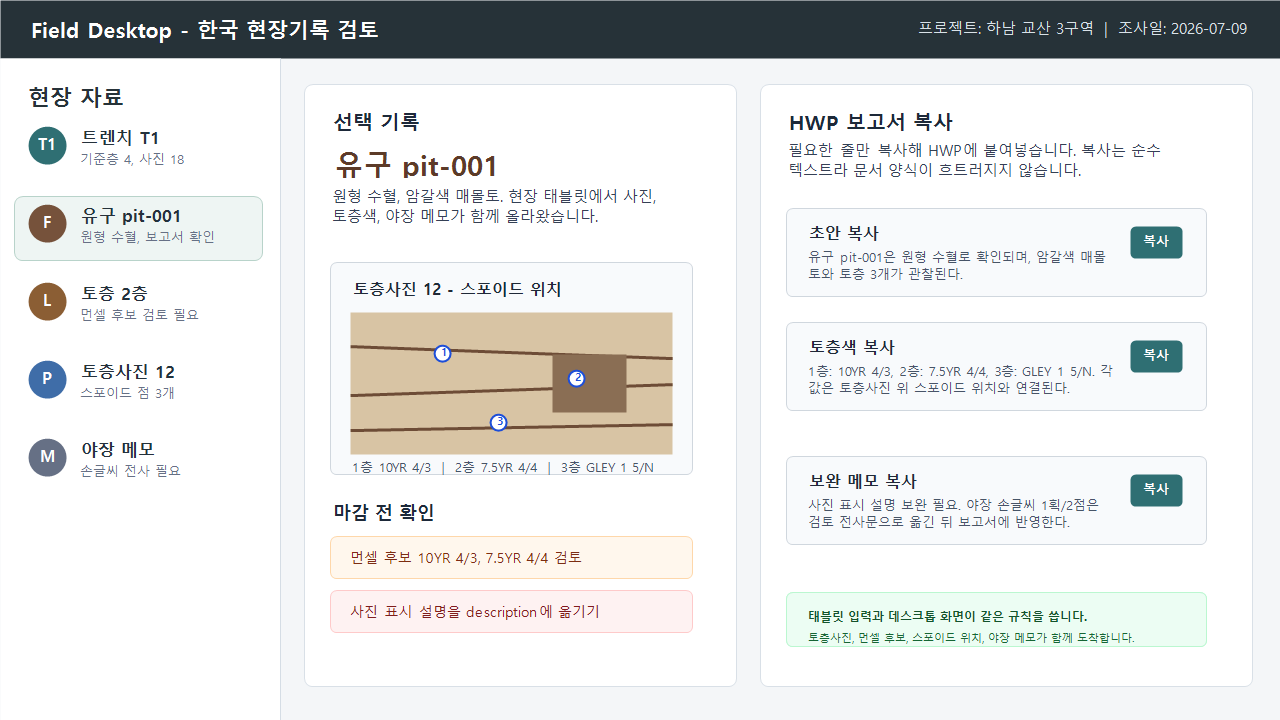
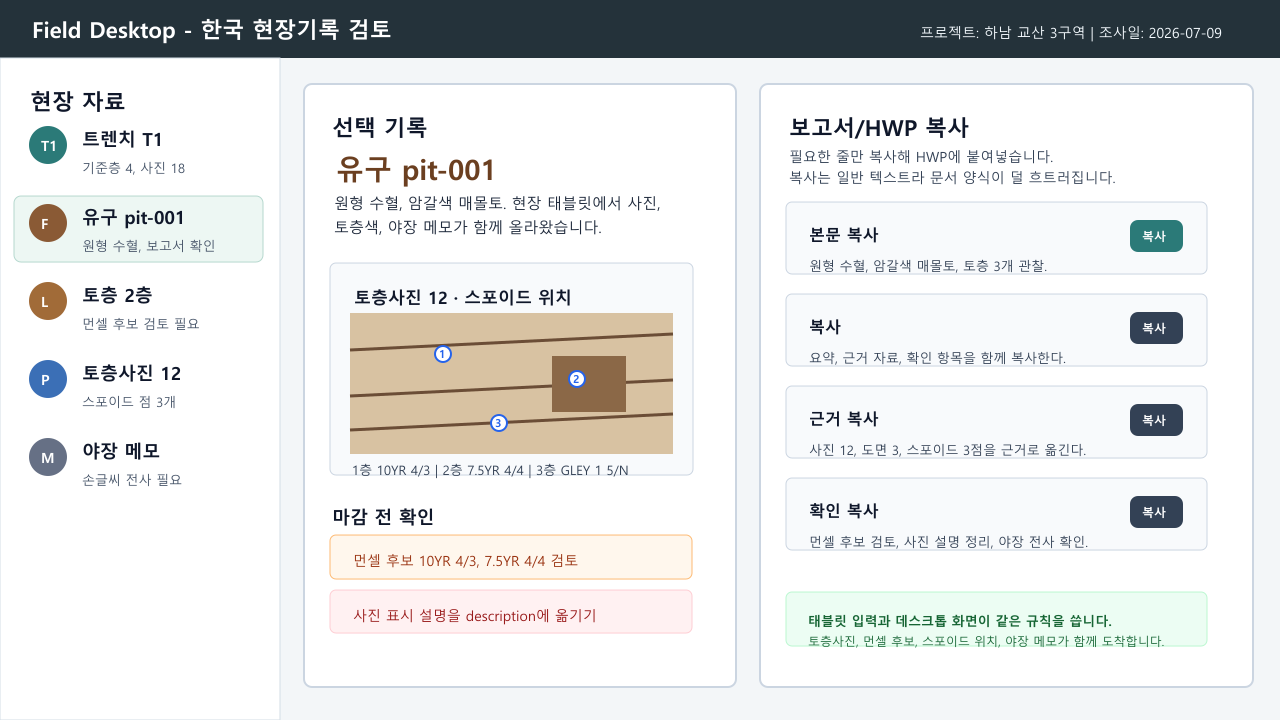
Refresh HWP body copy README visual

diff --git a/tools/korean-fieldwork-parity-check.js b/tools/korean-fieldwork-parity-check.js
@@ -3805,6 +3805,12 @@ function validateTabletInstallGuide() {
       || !desktopInstallDocText.includes('`본문 복사`')) {
     findings.push('root README and desktop install guide must document direct Field Desktop HWP body copy before BridgeDesk fallback tooling');
   }
+  if (!readTextFile('tools/bridgedesk/tools/make_visual_assets.py').includes('make_readme_field_desktop_screenshot')
+      || !readTextFile('tools/bridgedesk/tools/make_visual_assets.py').includes('readme-field-desktop-hwp-copy.png')
+      || !readTextFile('tools/bridgedesk/tools/make_visual_assets.py').includes('본문 복사')
+      || !readTextFile('tools/bridgedesk/pyproject.toml').includes('Pillow')) {
+    findings.push('README HWP screenshot generation must stay tied to the direct Field Desktop body-copy flow and declare its Pillow dependency');
+  }
   if (!rootReadmeText.includes('태블릿 자료를 데스크톱으로 받기')
       || !rootReadmeText.includes('Field Hub 동기화')
       || !rootReadmeText.includes('original_image')

diff --git a/tools/bridgedesk/tools/make_visual_assets.py b/tools/bridgedesk/tools/make_visual_assets.py
@@ -4,7 +4,13 @@ from __future__ import annotations
 
 from pathlib import Path
 
-from PIL import Image, ImageDraw, ImageFont
+try:
+    from PIL import Image, ImageDraw, ImageFont
+except ModuleNotFoundError as exc:
+    raise SystemExit(
+        "Pillow is required to generate BridgeDesk visual assets. "
+        "Install it with: python -m pip install Pillow"
+    ) from exc
 
 
 ROOT = Path(__file__).resolve().parent.parent
@@ -12,6 +18,7 @@ ROOT = Path(__file__).resolve().parent.parent
 
 def main() -> None:
     make_icon_assets()
+    make_readme_field_desktop_screenshot()
     make_desktop_screenshot()
     make_tablet_screenshot()
     print("Visual assets generated.")
@@ -34,6 +41,83 @@ def make_icon_assets() -> None:
     icon.resize((192, 192), Image.Resampling.LANCZOS).save(tablet_icon_dir / "icon-192.png")
     icon.save(tablet_icon_dir / "icon-512.png")
     icon.save(icon_dir / "bridgedesk.ico", sizes=[(16, 16), (32, 32), (48, 48), (128, 128), (256, 256)])
+
+
+def make_readme_field_desktop_screenshot() -> None:
+    out_dir = ROOT.parent.parent / "docs" / "korean-fieldwork" / "images"
+    out_dir.mkdir(parents=True, exist_ok=True)
+    image = Image.new("RGB", (1280, 720), "#f3f6f8")
+    draw = ImageDraw.Draw(image)
+
+    draw.rectangle((0, 0, 1280, 58), fill="#24323a")
+    draw.text((32, 18), "Field Desktop - 한국 현장기록 검토", fill="#ffffff", font=font(22, bold=True))
+    draw.text((920, 22), "프로젝트: 하남 교산 3구역  |  조사일: 2026-07-09", fill="#f5fbff", font=font(14))
+
+    draw.rectangle((0, 58, 280, 720), fill="#ffffff", outline="#d4dde6")
+    draw.text((30, 88), "현장 자료", fill="#0f172a", font=font(22, bold=True))
+    sidebar_items = [
+        ("T1", "트렌치 T1", "기준층 4, 사진 18", "#2b7a78"),
+        ("F", "유구 pit-001", "원형 수혈, 보고서 확인", "#8a5a35"),
+        ("L", "토층 2층", "먼셀 후보 검토 필요", "#a16b38"),
+        ("P", "토층사진 12", "스포이드 점 3개", "#3b6fb6"),
+        ("M", "야장 메모", "손글씨 전사 필요", "#667085"),
+    ]
+    for index, (badge, title, subtitle, color) in enumerate(sidebar_items):
+        y = 126 + index * 78
+        if index == 1:
+            draw.rounded_rectangle((14, y - 8, 263, y + 58), radius=7, fill="#edf7f3", outline="#b6d8ce")
+        draw.ellipse((29, y, 67, y + 38), fill=color)
+        draw.text((41, y + 9), badge, fill="#ffffff", font=font(14, bold=True))
+        draw.text((82, y + 1), title, fill="#0f172a", font=font(18, bold=True))
+        draw.text((82, y + 28), subtitle, fill="#475569", font=font(13))
+
+    draw_card(draw, (304, 84, 736, 687))
+    draw.text((332, 114), "선택 기록", fill="#0f172a", font=font(22, bold=True))
+    draw.text((336, 152), "유구 pit-001", fill="#6b3f20", font=font(28, bold=True))
+    draw.text((334, 190), "원형 수혈, 암갈색 매몰토. 현장 태블릿에서 사진,", fill="#1e293b", font=font(15))
+    draw.text((334, 214), "토층색, 야장 메모가 함께 올라왔습니다.", fill="#1e293b", font=font(15))
+
+    draw.rounded_rectangle((330, 263, 693, 475), radius=6, fill="#f8fafc", outline="#cbd5e1")
+    draw.text((354, 283), "토층사진 12 · 스포이드 위치", fill="#0f172a", font=font(17, bold=True))
+    draw.rectangle((350, 313, 673, 454), fill="#d8c2a2")
+    for line_y in (350, 396, 430):
+        draw.line((350, line_y, 673, line_y - 16), fill="#6b4d36", width=3)
+    draw.rectangle((552, 356, 626, 412), fill="#8b6847")
+    for number, point in enumerate(((443, 354), (577, 379), (499, 423)), start=1):
+        x, y = point
+        draw.ellipse((x - 8, y - 8, x + 8, y + 8), fill="#ffffff", outline="#2563eb", width=2)
+        draw.text((x - 4, y - 7), str(number), fill="#2563eb", font=font(11, bold=True))
+    draw.text((352, 461), "1층 10YR 4/3  |  2층 7.5YR 4/4  |  3층 GLEY 1 5/N", fill="#334155", font=font(13))
+
+    draw.text((332, 505), "마감 전 확인", fill="#0f172a", font=font(18, bold=True))
+    draw.rounded_rectangle((330, 535, 692, 579), radius=6, fill="#fff7ed", outline="#fdba74")
+    draw.text((353, 551), "먼셀 후보 10YR 4/3, 7.5YR 4/4 검토", fill="#9a3412", font=font(14))
+    draw.rounded_rectangle((330, 590, 692, 633), radius=6, fill="#fff1f2", outline="#fecdd3")
+    draw.text((353, 606), "사진 표시 설명을 description에 옮기기", fill="#991b1b", font=font(14))
+
+    draw_card(draw, (760, 84, 1253, 687))
+    draw.text((789, 114), "보고서/HWP 복사", fill="#0f172a", font=font(22, bold=True))
+    draw.text((789, 144), "필요한 줄만 복사해 HWP에 붙여넣습니다.", fill="#334155", font=font(14))
+    draw.text((789, 165), "복사는 일반 텍스트라 문서 양식이 덜 흐트러집니다.", fill="#334155", font=font(14))
+
+    copy_blocks = [
+        ("본문 복사", "원형 수혈, 암갈색 매몰토, 토층 3개 관찰.", "#2b7a78"),
+        ("복사", "요약, 근거 자료, 확인 항목을 함께 복사한다.", "#334155"),
+        ("근거 복사", "사진 12, 도면 3, 스포이드 3점을 근거로 옮긴다.", "#334155"),
+        ("확인 복사", "먼셀 후보 검토, 사진 설명 정리, 야장 전사 확인.", "#334155"),
+    ]
+    for index, (button_label, text, button_color) in enumerate(copy_blocks):
+        y = 202 + index * 92
+        draw.rounded_rectangle((786, y, 1207, y + 72), radius=6, fill="#f8fafc", outline="#cbd5e1")
+        draw.text((809, y + 18), button_label, fill="#0f172a", font=font(16, bold=True))
+        draw.text((809, y + 48), text, fill="#334155", font=font(13))
+        draw_button(draw, (1130, y + 18, 1183, y + 50), "복사", button_color)
+
+    draw.rounded_rectangle((786, 592, 1207, 646), radius=6, fill="#ecfdf3", outline="#bbf7d0")
+    draw.text((808, 610), "태블릿 입력과 데스크톱 화면이 같은 규칙을 씁니다.", fill="#166534", font=font(13, bold=True))
+    draw.text((808, 630), "토층사진, 먼셀 후보, 스포이드 위치, 야장 메모가 함께 도착합니다.", fill="#166534", font=font(12))
+
+    image.save(out_dir / "readme-field-desktop-hwp-copy.png")
 
 
 def make_desktop_screenshot() -> None:
@@ -163,8 +247,11 @@ def draw_card(draw: ImageDraw.ImageDraw, box: tuple[int, int, int, int]) -> None
     draw.rounded_rectangle(box, radius=8, fill="#ffffff", outline="#cbd5e1", width=2)
 
 
-def draw_button(draw: ImageDraw.ImageDraw, box: tuple[int, int, int, int], label: str) -> None:
-    draw.rounded_rectangle(box, radius=8, fill="#24445a")
+def draw_button(draw: ImageDraw.ImageDraw,
+                box: tuple[int, int, int, int],
+                label: str,
+                fill: str = "#24445a") -> None:
+    draw.rounded_rectangle(box, radius=8, fill=fill)
     draw.text((box[0] + 12, box[1] + 9), label, fill="#ffffff", font=font(12, bold=True))
 
 